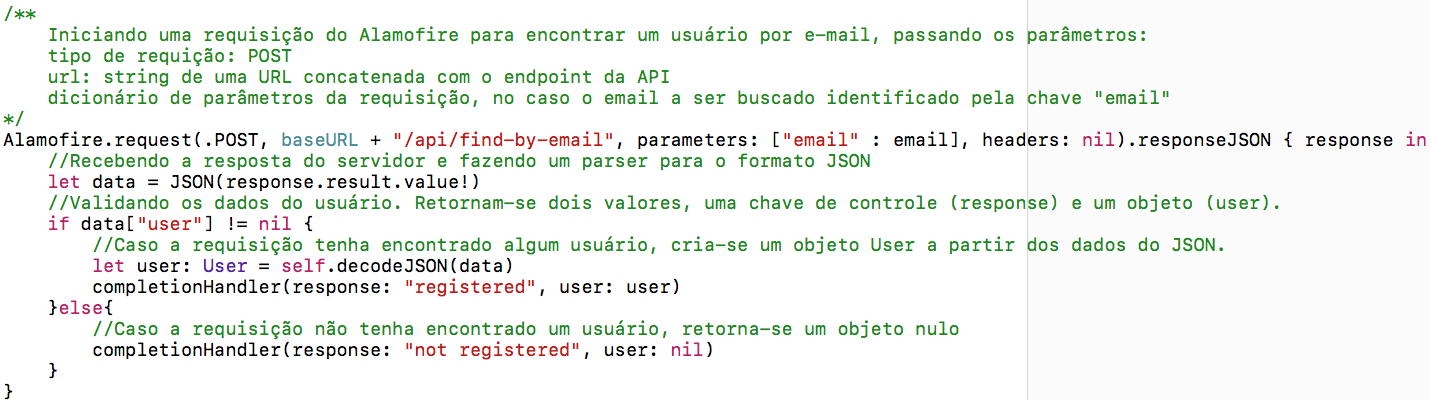
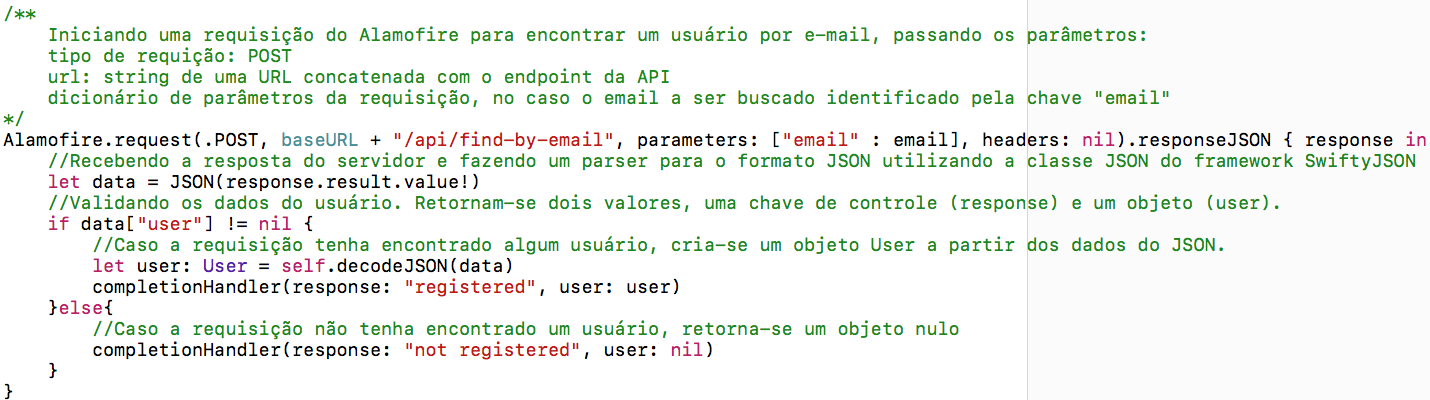
Colocando imagens de web service em ios e android. colocando imagem do login com fb no ios

Changed region(s): [[0.6154, 0.36, 1.0, 0.42]]

diff --git a/capitulos/estudodecaso.tex b/capitulos/estudodecaso.tex
@@ -338,39 +338,65 @@ Independente da plataforma, sempre deve haver um passo anterior ao desenvolvimen
 aplicativo a ser desenvolvido na plataforma para desenvolvedores do Facebook\footnote{\url{https://developers.facebook.com}}. O registro do aplicativo deve ser feito
 para cada plataforma que se deseja atingir, por exemplo, iOS e Android, utilizando para isso, o nome do pacote do aplicativo em cada plataforma.
 %Por exemplo, na criação do aplicativo iOS é definido um \textit{bundle ID}, já no Android é definido um nome do pacote. 
+
 Com esta estapa concluída, pode-se iniciar o desenvolvimento desta funcionalidade utilizando para isso o \textit{SDK} do Facebook para iOS e Android.
 No caso do Ionic, existem alguns \textit{plugins} que podem ser utilizados, como por exemplo o \textit{\$cordovaOauth}\footnote{\url{http://ngcordova.com/docs/plugins/oauth/}}, disponível dentro do próprio ngCordova, 
-que permite a conexão com vários provedores de serviços, tais como Google, Github, Facebook e Linkedin, por exemplo. Além desse, existem outros meios de se conectar aos provedores, por exemplo, utilizando o 
+que permite a conexão com vários provedores de serviços, tais como Google, Github, Facebook e Linkedin, por exemplo. 
+
+Além desse, existem outros meios de se conectar aos provedores, por exemplo, utilizando o 
 Firebase\footnote{\url{https://www.firebase.com}} do Google e o \textit{plugin phonegap-facebook-plugin}\footnote{\url{https://github.com/Wizcorp/phonegap-facebook-plugin.git}}.
 Desta forma, é possível acessar os dados públicos do usuário como nome, e-mail e foto de perfil para realizar um cadastro e \textit{login} no aplicativo.
-Em todas as três plataformas citadas (iOS, Android e Ionic), a complexidade é similar, havendo apenas diferenças inerentes a cada linguagem e plataforma.
+Em todas as três plataformas citadas (iOS, Android e Ionic), a complexidade é similar, havendo apenas diferenças inerentes a cada linguagem e plataforma. 
+
+Vale ressaltar, que o \textit{login} com redes sociais, nada mais é do que a obtenção dos dados do usuário de uma plataforma terceira por meio do protocolo \textit{OAuth}, 
+ou seja, não são criadas sessões a partir das plataformas terceiras, apenas os dados do usuário na outra plataforma são acessados para que não haja a necessidade do usuário informá-los novamente. A partir dos dados 
+obtidos, o aplicativo se encarrega de realizar o cadastro e \textit{login} do usuário da forma como melhor convier. A seguir são apresentados dois trechos de código no iOS e no Ionic para \textit{login} com o Facebook. 
+
+\begin{figure}[H]
+	\centering
+	\includegraphics[width=1\textwidth]{codes/ios/loginfb}
+	\caption[Trecho de código realizando requisição de dados do Facebook - iOS]{Trecho de código realizando requisição de dados do Facebook - iOS}
+	\label{fig:loginfb-ios}
+\end{figure}
 
 Vale ressaltar que o \textit{plugin} do Cordova é genérico para vários provedores, ou seja, com o mesmo código é possível requisitar os dados em vários serviços distintos. Já nos \textit{SDKs} nativos, isso não ocorre.
 Caso haja a necessidade de obtenção de dados de vários provedores, como por exemplo, no caso de \textit{login} com Facebook e Google, na abordagem nativa é preciso utilizar a \textit{SDK} do Facebook para iOS e Android
 e a \textit{SDK} do Google para iOS e Android. O mesmo não ocorre no multiplataforma, pois com o mesmo \textit{plugin} é possível fazer a conexão com vários serviços apenas alterando uma \textit{string}, 
 o que pode tornar o desenvolvimento mais simples que na abordagem nativa.
 
-\subsubsection{Consumo de Web Services e APIs???????} \label{subsubsec:webservices}
+\subsubsection{Consumo de Web Services} \label{subsubsec:webservices}
 Como o poder computacional dos dispositivos móveis, embora elevado, ainda não é comparável ao dos servidores, muitos aplicativos utilizam um modelo cliente/servidor, no qual
 as operações mais custosas computacionamente são processadas no lado servidor e não no cliente. Além disso, a persistência dos dados da aplicação dificilmente é feita localmente nos dispositivos para evitar 
-perdas de dados no caso de roubos, extravios e danos ao aparelho, facilitar a migração para outros dispositivos e uso em outras plataformas. Com isso, é necessário que os aplicativos estejam preparados para se 
+perdas de dados no caso de roubos, extravios ou danos ao aparelho, facilitar a migração para outros dispositivos e uso em outras plataformas. Com isso, é necessário que os aplicativos estejam preparados para se 
 comunicarem com \textit{Web Services}. Para realizar essa comunicação, cada plataforma oferece alguns meios nativos como classes e \textit{frameworks}, no entanto, existem \textit{frameworks} de terceiros que 
-são muito utilizados e conhecidos na comunidade de desenvolvedores tanto para comunicar com as \textit{APIs}, como para lidar com JSON e XML usados na comunicação entre aplicativo/servidor. 
+são muito utilizados e conhecidos na comunidade de desenvolvedores tanto para comunicar com os \textit{Web Services}, como para lidar com JSON e XML usados na comunicação entre aplicativo/servidor. 
 No iOS é possível realizar essa comunicação utilizando algumas classes nativas do sistema como por exemplo, \textit{NSURL}, \textit{NSData} e \textit{NSJSONSerialization}, informando uma \textit{URL} 
 na qual o \textit{app} irá se conectar para receber ou enviar algum dado para o servidor, no entanto, toda essa comunicação e tratamento das respostas deverá ser feita manualmente. Para facilitar, existem alguns 
-\textit{frameworks} terceiros como \textit{AlamoFire}\footnote{\url{https://github.com/Alamofire/Alamofire}} que abstraem essa comunição e tratamento dos dados tornando o código mais simples e limpo. Ao utilizá-lo,
-o programador apenas indica a \textit{URL}, o método da requisição (\textit{POST, GET, PUT, DELETE, etc}) e os parâmetros que deseja enviar ao servidor. Após isso, basta receber a resposta na forma de \textit{JSON},
-e utilizar de acordo com as necessidades do aplicativo. Um trecho de código exemplificando o uso do \textit{AlamoFire} é apresentado a seguir.
+\textit{frameworks} terceiros como \textit{AlamoFire}\footnote{\url{https://github.com/Alamofire/Alamofire}} e \textit{SwiftyJSON}\footnote{\url{https://github.com/SwiftyJSON/SwiftyJSON}} 
+que abstraem essa comunição e tratamento dos dados em JSON, respectivamente, tornando o código mais simples e limpo. Ao utilizá-lo, o programador apenas indica a \textit{URL}, o método da requisição 
+(\textit{POST, GET, PUT, DELETE, etc}) e os parâmetros que deseja enviar ao servidor. Após isso, basta receber a resposta na forma de \textit{JSON} dentro de um \textit{completion} do \textit{Alamofire}, 
+e utilizar os dados de acordo com as necessidades do aplicativo. Um trecho de código exemplificando o uso do \textit{AlamoFire} e \textit{SwiftyJSON} é apresentado a seguir.
 
 \begin{figure}[H]
 	\centering
 	\includegraphics[width=1\textwidth]{codes/ios/alamofire}
-	\caption[Trecho de código utilizando Alamofire - iOS]{Trecho de código utilizando Alamofire - iOS}
+	\caption[Trecho de código utilizando Alamofire e SwiftyJSON - iOS]{Trecho de código utilizando Alamofire e SwiftyJSON - iOS}
 	\label{fig:alamofire-ios}
 \end{figure}
 
-No Android, existe o \textit{Volley}\footnote{\url{https://developer.android.com/training/volley/index.html}}, da própria Google para facilitar a envio e recebimento dos dados.
+No Android, existe o \textit{Volley}\footnote{\url{https://developer.android.com/training/volley/index.html}}, da própria Google para facilitar a envio e recebimento dos dados. Assim como no iOS, define-se o método da 
+requisição, os parâmetros a serem enviados e dentro de um \textit{Listener} receber a resposta do servidor e tratar de acordo com as necessidades do aplicativo. Vale ressaltar que o \textit{Volley}, no momento da realização
+deste trabalho, não é nativamente preparado para enviar dados, apenas receber, de maneira que deve-se criar uma classe customizada de requisição que adiciona os parâmetros a serem enviados na requisição e faz o tratamento da
+resposta, para só então ser criada uma requisição que permite o envio de dados. No exemplo a seguir a classe criada chama-se \textit{CustomJSONObjectRequest} e sua implementação não se encontra na imagem. 
 
+\begin{figure}[H]
+	\centering
+	\includegraphics[width=1\textwidth]{codes/android/volley}
+	\caption[Trecho de código utilizando Volley - Andrdoid]{Trecho de código utilizando Volley - Andrdoid}
+	\label{fig:volley-android}
+\end{figure}
+
+... parecer sobre Ionic ...
 
 \subsubsection{Extração de metadados de arquivos} \label{subsubsec:extracaometadata}
 Em alguns casos, pode ser necessário a extração de metadados de algum arquivo específico, como uma imagem ou um áudio. No caso de uma imagem, 
